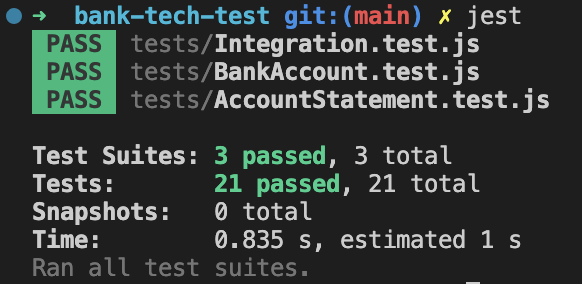
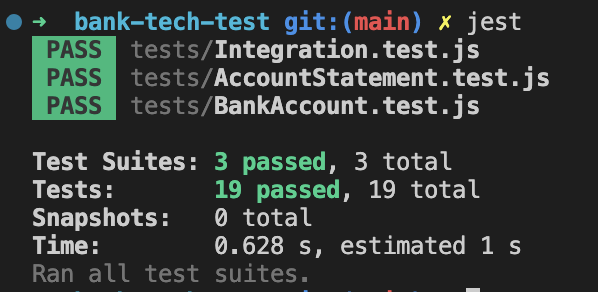
All feedback implement. All tests pass

diff --git a/tests/BankAccount.test.js b/tests/BankAccount.test.js
@@ -34,9 +34,11 @@ describe("BankAccount", () => {
 
     it('creates a transaction with a correctly formatted current date', () => {
         bankAccount.makeDeposit(1000.00)
-        const currentDate = bankAccount.getDate()
         const transactionDate = bankAccount.transactions[0].date
-        expect(transactionDate).toEqual(currentDate)
+        const dateFormatPattern = /^\d{2}\/\d{2}\/\d{4}$/;
+        const isDateFormattedCorrectly = dateFormatPattern.test(transactionDate);
+    
+        expect(isDateFormattedCorrectly).toBe(true);    
     })
 
     it('creates a new credit transaction when a credit is added', () => {
@@ -53,8 +55,8 @@ describe("BankAccount", () => {
         bankAccount.makeDeposit(100.00)
         bankAccount.makeDeposit(200.00)
         const currentDate = bankAccount.getDate()
-        expect(bankAccount.transactions).toEqual([{ date: `${currentDate}`, credit: '100.00', debit: null, balance: 100.00 },
-                                                  { date: `${currentDate}`, credit: '200.00', debit: null, balance: 300.00 }])
+        expect(bankAccount.transactions).toEqual([  { date: `${currentDate}`, credit: '100.00', debit: null, balance: 100.00 },
+                                                    { date: `${currentDate}`, credit: '200.00', debit: null, balance: 300.00 }])
     })
 
     it('deducts the amount from the balance when a withdrawal is made', () => {
@@ -104,7 +106,4 @@ describe("BankAccount", () => {
         expect(bankAccount.transactions).toEqual([  { date: `${currentDate}`, credit: '100.55', debit: null, balance: 100.55},
                                                     { date: `${currentDate}`, credit: null, debit: '50.50', balance: 50.05 }])
     })
-
-
-
 })

diff --git a/lib/BankAccount.js b/lib/BankAccount.js
@@ -25,8 +25,7 @@ class BankAccount {
 						date: currentDate, 
 						credit: null,
 						debit: withdrawalAmount.toFixed(2), 
-						balance: this.balance})
-						
+						balance: this.balance})						
     }
 
     getDate() {

diff --git a/lib/AccountStatement.js b/lib/AccountStatement.js
@@ -1,4 +1,3 @@
-const BankAccount = require('./BankAccount')
 
 class AccountStatement {
     printStatement(transactionsHistory) {

diff --git a/lib/designRecipe.md b/lib/designRecipe.md
@@ -51,7 +51,7 @@ class BankAccount {
 class AccountStatement {
 
     printStatement (transactions) {
-        // parameters: none
+        // parameters: takes array of transactions
         // returns: a list of all transactions from most recent to latest
     }
 }
@@ -114,7 +114,7 @@ describe("BankAccount", () => {
     })
 
     // when I make more than one withdrawal, the balance is updated accordingly
-    it('updates the balance correctly when multiple wihtdrawals made', () => {
+    it('updates the balance correctly when multiple withdrawals made', () => {
         // call makeDeposit with 200.00
         // call makeWithdrawal with 50.00
         // call makeWithdrawal with 100.00
@@ -124,7 +124,7 @@ describe("BankAccount", () => {
     // when I add a credit/debit, a transaction gets created with a correctly formatted date DD/MM/YYYY
     it('creates a transaction with a correctly formatted current date', () => {
         // call makeDeposit with 100 
-        //
+        // check it matches regex pattern for DD/MM/YYYY
     })
 
     // when I make a withdrawal, a transaction is added for each of them
@@ -169,10 +169,15 @@ describe("BankAccount", () => {
 describe("AccountStatement", () =>{
 
     // when I call print statement, I get a list of the recent transactions
-    // formatted in a nice way (most recent transaction first)
-    it('shows account transactions with the most recent first', () => {
+    // formatted in a nice way 
+    it('shows account transactions in a nicely formatted way', () => {
         // create a mock bank account with a balance and transactions
-        // expect transactions to show with most recent first
+        // expect transactions to show as a formatted string
+    })
+
+    it('shows multiple account transactions in a nicely formatted way, most recent first', () => {
+        // create a mock bank account with a balance and multiple transactions
+        // expect transactions to show as a formatted string, most recent first
     })
 })
 

diff --git a/README.md b/README.md
@@ -41,26 +41,26 @@ Now enter these, one by one
 
     > const bankAccount = new BankAccount();
 
-    > bankAccount.makeDeposit(1000.00, '10/01/2023')
+    > bankAccount.makeDeposit(1000.00)
 
-    > bankAccount.makeDeposit(2000.00, '13/01/2023')
+    > bankAccount.makeDeposit(2000.00)
 
-    > bankAccount.makeWithdrawal(500.00, '14/01/2023')
+    > bankAccount.makeWithdrawal(500.00)
 
     > const AccountStatement = require('./lib/AccountStatement')
 
     > const accountStatement = new AccountStatement(bankAccount)
 
-    > const statement = accountStatement.printStatement()
+    > const statement = accountStatement.printStatement(bankAccount.transactions)
 
     > console.log(statement)
 
-    
+    Note: the currentDate will be the date of whenever you run the program
 ```
     Expected Output:
 
     date || credit || debit || balance  
-    14/01/2023 || || 500.00 || 2500.00  
-    13/01/2023 || 2000.00 || || 3000.00  
-    10/01/2023 || 1000.00 || || 1000.00  
+    ${currentDate} || || 500.00 || 2500.00  
+    ${currentDate} || 2000.00 || || 3000.00  
+    ${currentDate} || 1000.00 || || 1000.00  
 ```
